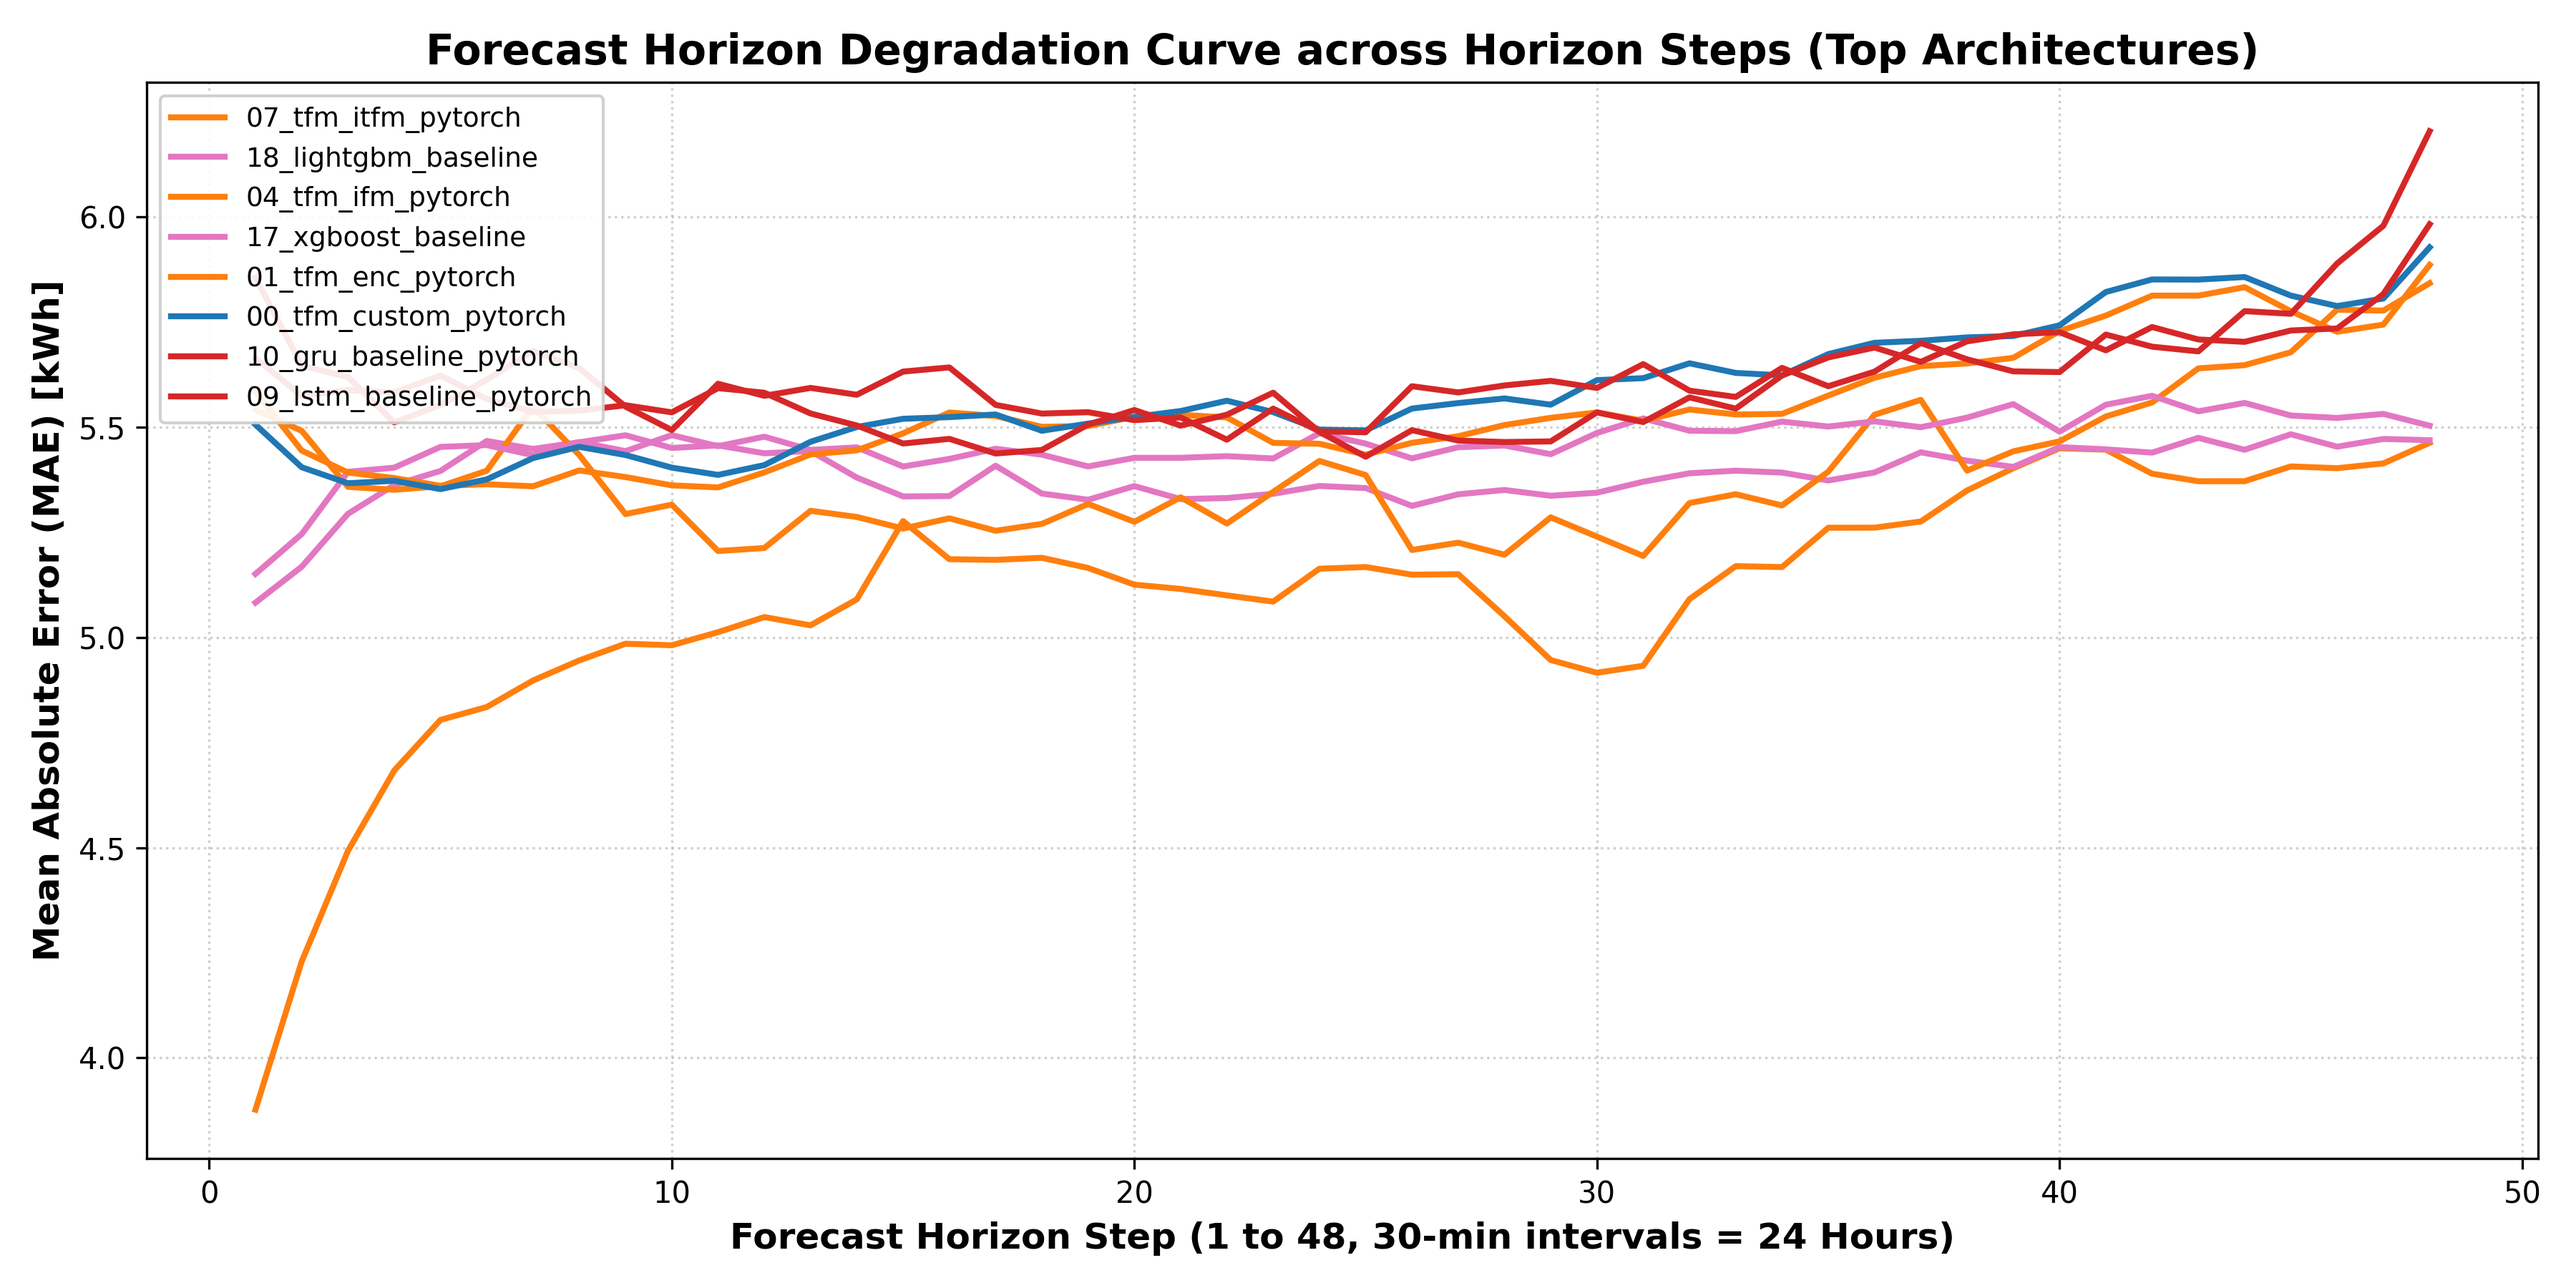
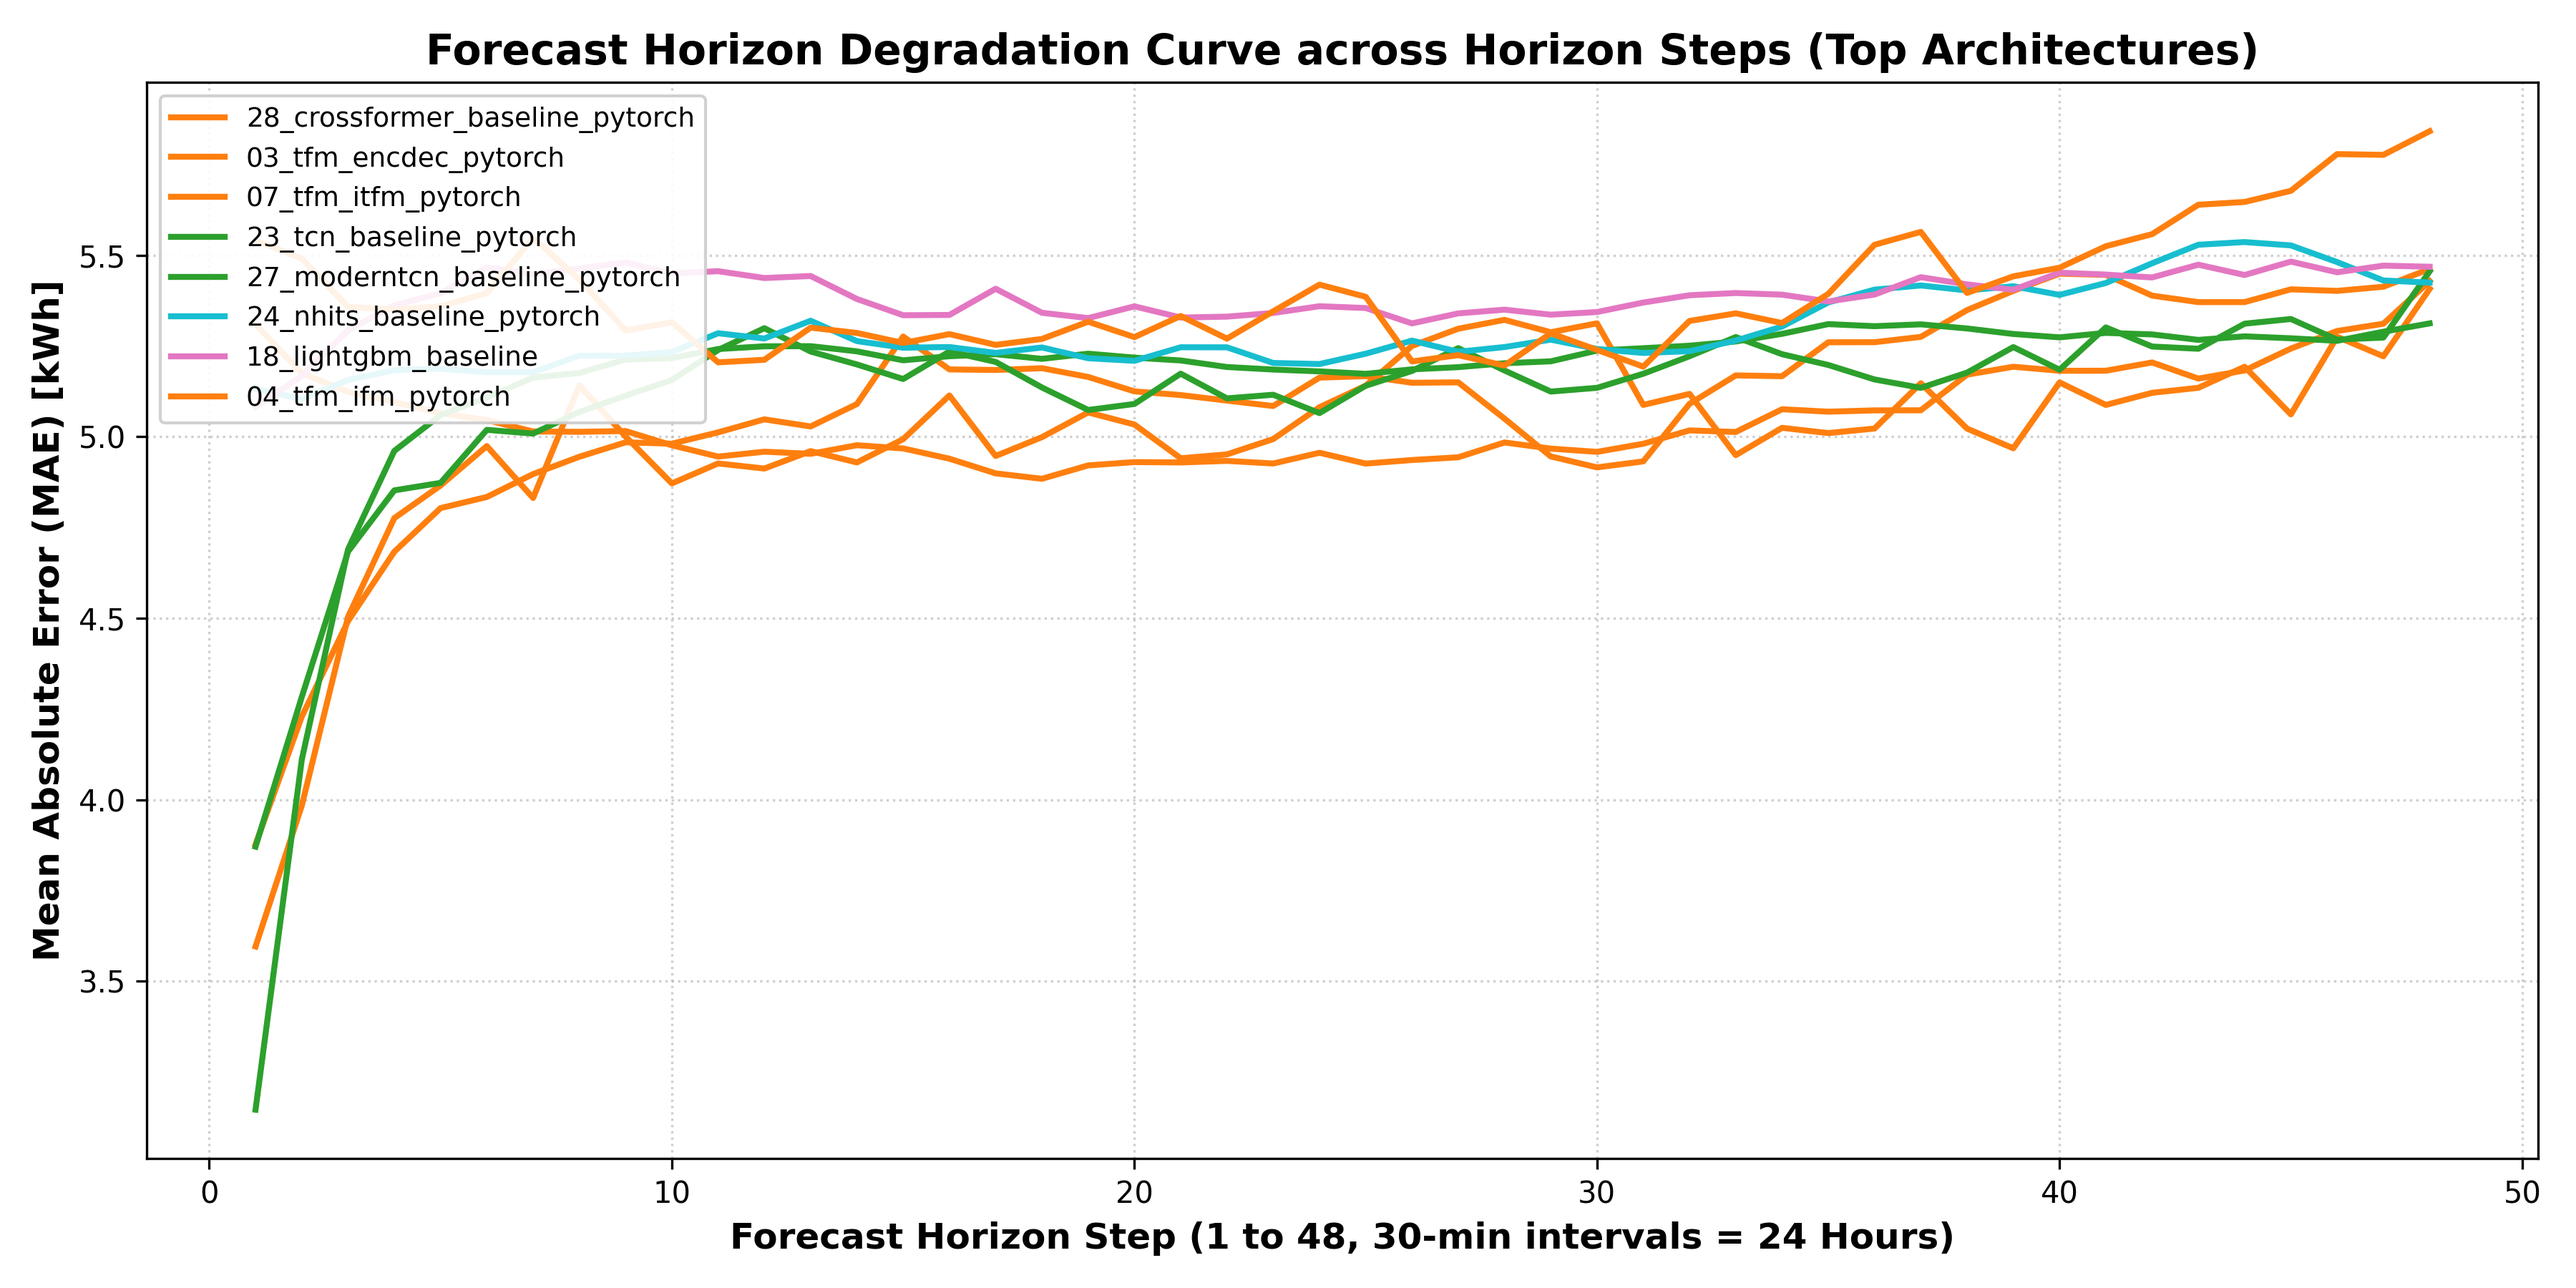
feat(06): fix run_benchmark scoping bug and add dedicated H100 sbatch runner

diff --git a/docs/benchmark_summary.tex b/docs/benchmark_summary.tex
@@ -7,24 +7,36 @@
 \toprule
 \textbf{Model Architecture} & \textbf{Family} & \textbf{MAE (kWh)} $\downarrow$ & \textbf{RMSE (kWh)} $\downarrow$ & \textbf{WAPE (\%)} $\downarrow$ & \textbf{$R^2$} $\uparrow$ & \textbf{Parameters} \\
 \midrule
-07\_tfm\_itfm\_pytorch & Transformer & \textbf{$5.0937 \pm 0.1477$} & \textbf{$7.5109 \pm 0.1545$} & \textbf{$59.82 \pm 1.73$} & $0.7055$ & N/A \\
+28\_crossformer\_baseline\_pytorch & Transformer (Crossformer) & \textbf{$5.0004 \pm 0.1176$} & \textbf{$7.4610 \pm 0.1038$} & \textbf{$58.72 \pm 1.38$} & $0.7094$ & 1,645,360 \\
+03\_tfm\_encdec\_pytorch & Transformer & $5.0528 \pm 0.1323$ & $7.8750 \pm 0.1611$ & $59.34 \pm 1.55$ & $0.6762$ & 178,497 \\
+07\_tfm\_itfm\_pytorch & Transformer & $5.0937 \pm 0.1477$ & $7.5109 \pm 0.1545$ & $59.82 \pm 1.73$ & $0.7055$ & N/A \\
+23\_tcn\_baseline\_pytorch & CNN / 2D Temporal & $5.1188 \pm 0.1077$ & $7.4927 \pm 0.1225$ & $60.11 \pm 1.27$ & $0.7069$ & 161,392 \\
+27\_moderntcn\_baseline\_pytorch & CNN (ModernTCN) & $5.1498 \pm 0.0340$ & $8.0072 \pm 0.0735$ & $60.48 \pm 0.40$ & $0.6654$ & 767,112 \\
+24\_nhits\_baseline\_pytorch & Basis Expansion & $5.2916 \pm 0.0827$ & $7.7747 \pm 0.1053$ & $62.14 \pm 0.97$ & $0.6845$ & 2,308,530 \\
 18\_lightgbm\_baseline & Tree-based GBDT & $5.3865 \pm 0.0059$ & $8.1150 \pm 0.0070$ & $63.26 \pm 0.07$ & $0.6563$ & 48,000 \\
 04\_tfm\_ifm\_pytorch & Transformer & $5.3972 \pm 0.1241$ & $8.0262 \pm 0.1322$ & $63.38 \pm 1.46$ & $0.6637$ & 120,592 \\
 17\_xgboost\_baseline & Tree-based GBDT & $5.4623 \pm 0.0099$ & $8.1352 \pm 0.0087$ & $64.15 \pm 0.12$ & $0.6546$ & 48,000 \\
-01\_tfm\_enc\_pytorch & Transformer & $5.5415 \pm 0.0866$ & $7.9135 \pm 0.1106$ & $65.08 \pm 1.02$ & $0.6731$ & 180,336 \\
+10\_gru\_baseline\_pytorch & Recurrent (RNN) & $5.4808 \pm 0.1177$ & $7.8744 \pm 0.1160$ & $64.37 \pm 1.38$ & $0.6763$ & 54,640 \\
+13\_smamba\_baseline\_pytorch & State Space Model & $5.4959 \pm 0.2483$ & $8.7047 \pm 0.4660$ & $64.54 \pm 2.92$ & $0.6034$ & 333,288 \\
+22\_tfm\_fedformer\_pytorch & Transformer & $5.5627 \pm 0.0700$ & $7.9165 \pm 0.0809$ & $65.33 \pm 0.82$ & $0.6729$ & 54,530 \\
 00\_tfm\_custom\_pytorch & Custom Proposed & $5.5811 \pm 0.1324$ & $7.8832 \pm 0.1215$ & $65.54 \pm 1.55$ & $0.6756$ & 180,336 \\
-10\_gru\_baseline\_pytorch & Recurrent (RNN) & $5.5895 \pm 0.1014$ & $7.9918 \pm 0.1039$ & $65.64 \pm 1.19$ & $0.6666$ & 33,264 \\
-09\_lstm\_baseline\_pytorch & Recurrent (RNN) & $5.6338 \pm 0.0815$ & $8.0907 \pm 0.1488$ & $66.16 \pm 0.96$ & $0.6583$ & 37,488 \\
+02\_tfm\_dec\_pytorch & Transformer & $5.5937 \pm 0.1361$ & $8.0554 \pm 0.1082$ & $65.69 \pm 1.60$ & $0.6613$ & 654,960 \\
+01\_tfm\_enc\_pytorch & Transformer & $5.6313 \pm 0.0893$ & $8.0440 \pm 0.1092$ & $66.13 \pm 1.05$ & $0.6622$ & 29,136 \\
+20\_tfm\_mft\_pytorch & Transformer (MFT) & $5.6435 \pm 0.2722$ & $8.2366 \pm 0.3430$ & $66.28 \pm 3.20$ & $0.6453$ & 231,024 \\
+09\_lstm\_baseline\_pytorch & Recurrent (RNN) & $5.6596 \pm 0.0804$ & $8.1586 \pm 0.1706$ & $66.47 \pm 0.94$ & $0.6525$ & 62,960 \\
 15\_timemachine\_baseline\_pytorch & State Space Model & $5.6652 \pm 0.0910$ & $8.1436 \pm 0.0790$ & $66.53 \pm 1.07$ & $0.6539$ & 38,448 \\
-02\_tfm\_dec\_pytorch & Transformer & $5.7191 \pm 0.0914$ & $8.0587 \pm 0.0850$ & $67.16 \pm 1.07$ & $0.6610$ & 192,624 \\
+21\_cnn\_lstm\_tfm\_pytorch & Hybrid Architecture & $5.7343 \pm 0.1865$ & $8.4143 \pm 0.2966$ & $67.34 \pm 2.19$ & $0.6301$ & 685,104 \\
 16\_s4d\_baseline\_pytorch & State Space Model & $5.7690 \pm 0.1409$ & $8.3191 \pm 0.1640$ & $67.75 \pm 1.65$ & $0.6387$ & 27,984 \\
 14\_powermamba\_baseline\_pytorch & State Space Model & $5.7845 \pm 0.1200$ & $8.2071 \pm 0.1632$ & $67.93 \pm 1.41$ & $0.6483$ & 45,360 \\
-13\_smamba\_baseline\_pytorch & State Space Model & $5.8187 \pm 0.1023$ & $8.2148 \pm 0.0850$ & $68.33 \pm 1.20$ & $0.6478$ & 362,480 \\
+30\_nstransformer\_baseline\_pytorch & Transformer (NS-Tfm) & $5.8956 \pm 0.1437$ & $8.6152 \pm 0.1732$ & $69.24 \pm 1.69$ & $0.6125$ & 113,873 \\
 05\_tfm\_afm\_pytorch & Transformer & $5.9289 \pm 0.1330$ & $8.6172 \pm 0.1860$ & $69.63 \pm 1.56$ & $0.6123$ & 926,978 \\
-03\_tfm\_encdec\_pytorch & Transformer & $5.9328 \pm 0.1112$ & $8.2210 \pm 0.1065$ & $69.67 \pm 1.31$ & $0.6472$ & 1,282,800 \\
+31\_scinet\_baseline\_pytorch & Convolutional (SCINet) & $6.0479 \pm 0.3763$ & $8.5736 \pm 0.4783$ & $71.03 \pm 4.42$ & $0.6152$ & 18,376,753 \\
+26\_nbeats\_baseline\_pytorch & Basis Expansion & $6.0587 \pm 0.0586$ & $9.3085 \pm 0.0304$ & $71.15 \pm 0.69$ & $0.5478$ & 1,036,864 \\
+29\_segrnn\_baseline\_pytorch & Recurrent (SegRNN) & $6.0661 \pm 0.1210$ & $9.4696 \pm 0.0945$ & $71.24 \pm 1.42$ & $0.5320$ & 800,012 \\
 08\_tfm\_timesnet\_pytorch & CNN / 2D Temporal & $6.0995 \pm 0.1824$ & $8.8674 \pm 0.2681$ & $71.63 \pm 2.14$ & $0.5893$ & N/A \\
 12\_nlinear\_baseline\_pytorch & Linear & Decomp & $6.2466 \pm 0.0036$ & $10.4387 \pm 0.0011$ & $73.36 \pm 0.04$ & $0.4313$ & 4,656 \\
-11\_dlinear\_baseline\_pytorch & Linear & Decomp & $6.9832 \pm 0.0540$ & $10.4371 \pm 0.0227$ & $82.01 \pm 0.63$ & $0.4315$ & 9,312 \\
+11\_dlinear\_baseline\_pytorch & Linear & Decomp & $6.9656 \pm 0.1071$ & $10.4281 \pm 0.0434$ & $81.80 \pm 1.26$ & $0.4325$ & 9,312 \\
+25\_tide\_baseline\_pytorch & Linear / Dense MLP & $6.9962 \pm 0.0631$ & $10.4550 \pm 0.0326$ & $82.16 \pm 0.74$ & $0.4295$ & 1,833,396 \\
 06\_tfm\_ptst\_pytorch & Transformer & $7.2949 \pm 0.1759$ & $10.7911 \pm 0.2136$ & $85.67 \pm 2.07$ & $0.3921$ & 542,056 \\
 19\_sarima\_baseline & Statistical Baseline & $10.1119 \pm 0.0000$ & $13.8129 \pm 0.0000$ & $108.27 \pm 0.00$ & $0.1407$ & 4 \\
 \bottomrule

diff --git a/06_tfm_ptst_pytorch.py b/06_tfm_ptst_pytorch.py
@@ -273,6 +273,7 @@ steps_to_eval = [0, 5, 11, 47]
 step_labels = {0: 'Step 0 (30 min)', 5: 'Step 5 (3 hr)', 11: 'Step 11 (6 hr)', 47: 'Step 47 (24 hr)'}
 
 def run_benchmark():
+    global results_data, all_seed_metrics, all_predictions, best_overall_val_loss, best_seed_id
     print('Pre-building sequence tensors...')
     X_train_t, y_train_t, _, _ = create_windowed_tensors(X_train_scaled, y_train_scaled, LOOKBACK, HORIZON)
     X_val_t, y_val_t, _, _     = create_windowed_tensors(X_val_scaled, y_val_scaled, LOOKBACK, HORIZON)

diff --git a/docs/benchmark_summary.md b/docs/benchmark_summary.md
@@ -5,23 +5,35 @@
 
 | Rank | Model Architecture | Family | MAE (kWh) ↓ | RMSE (kWh) ↓ | WAPE (%) ↓ | Peak MAE ↓ | R² ↑ | Params | Time (s) |
 |:---:|---|---|:---:|:---:|:---:|:---:|:---:|:---:|:---:|
-| 1 | `07_tfm_itfm_pytorch` | Transformer | **5.0937 ± 0.1477** 🏆 | **7.5109 ± 0.1545** | **59.82% ± 1.73%** | **11.1202** | **0.7055** | N/A | 60.7s |
-| 2 | `18_lightgbm_baseline` | Tree-based GBDT | 5.3865 ± 0.0059 | 8.1150 ± 0.0070 | 63.26% ± 0.07% | 14.7259 | 0.6563 | 48,000 | 196.4s |
-| 3 | `04_tfm_ifm_pytorch` | Transformer | 5.3972 ± 0.1241 | 8.0262 ± 0.1322 | 63.38% ± 1.46% | 13.2090 | 0.6637 | 120,592 | 208.3s |
-| 4 | `17_xgboost_baseline` | Tree-based GBDT | 5.4623 ± 0.0099 | 8.1352 ± 0.0087 | 64.15% ± 0.12% | 14.7549 | 0.6546 | 48,000 | 49.5s |
-| 5 | `01_tfm_enc_pytorch` | Transformer | 5.5415 ± 0.0866 | 7.9135 ± 0.1106 | 65.08% ± 1.02% | 12.8813 | 0.6731 | 180,336 | 20.0s |
-| 6 | `00_tfm_custom_pytorch` | Custom Proposed | 5.5811 ± 0.1324 | 7.8832 ± 0.1215 | 65.54% ± 1.55% | 12.5785 | 0.6756 | 180,336 | 38.2s |
-| 7 | `10_gru_baseline_pytorch` | Recurrent (RNN) | 5.5895 ± 0.1014 | 7.9918 ± 0.1039 | 65.64% ± 1.19% | 13.2555 | 0.6666 | 33,264 | 22.5s |
-| 8 | `09_lstm_baseline_pytorch` | Recurrent (RNN) | 5.6338 ± 0.0815 | 8.0907 ± 0.1488 | 66.16% ± 0.96% | 13.1166 | 0.6583 | 37,488 | 19.4s |
-| 9 | `15_timemachine_baseline_pytorch` | State Space Model | 5.6652 ± 0.0910 | 8.1436 ± 0.0790 | 66.53% ± 1.07% | 14.6931 | 0.6539 | 38,448 | 428.0s |
-| 10 | `02_tfm_dec_pytorch` | Transformer | 5.7191 ± 0.0914 | 8.0587 ± 0.0850 | 67.16% ± 1.07% | 12.9092 | 0.6610 | 192,624 | 43.2s |
-| 11 | `16_s4d_baseline_pytorch` | State Space Model | 5.7690 ± 0.1409 | 8.3191 ± 0.1640 | 67.75% ± 1.65% | 13.4052 | 0.6387 | 27,984 | 19.4s |
-| 12 | `14_powermamba_baseline_pytorch` | State Space Model | 5.7845 ± 0.1200 | 8.2071 ± 0.1632 | 67.93% ± 1.41% | 14.2565 | 0.6483 | 45,360 | 107.4s |
-| 13 | `13_smamba_baseline_pytorch` | State Space Model | 5.8187 ± 0.1023 | 8.2148 ± 0.0850 | 68.33% ± 1.20% | 15.0795 | 0.6478 | 362,480 | 1625.3s |
-| 14 | `05_tfm_afm_pytorch` | Transformer | 5.9289 ± 0.1330 | 8.6172 ± 0.1860 | 69.63% ± 1.56% | 14.2734 | 0.6123 | 926,978 | 48.1s |
-| 15 | `03_tfm_encdec_pytorch` | Transformer | 5.9328 ± 0.1112 | 8.2210 ± 0.1065 | 69.67% ± 1.31% | 13.1369 | 0.6472 | 1,282,800 | 75.8s |
-| 16 | `08_tfm_timesnet_pytorch` | CNN / 2D Temporal | 6.0995 ± 0.1824 | 8.8674 ± 0.2681 | 71.63% ± 2.14% | 16.1503 | 0.5893 | N/A | 127.9s |
-| 17 | `12_nlinear_baseline_pytorch` | Linear & Decomp | 6.2466 ± 0.0036 | 10.4387 ± 0.0011 | 73.36% ± 0.04% | 21.3976 | 0.4313 | 4,656 | 21.8s |
-| 18 | `11_dlinear_baseline_pytorch` | Linear & Decomp | 6.9832 ± 0.0540 | 10.4371 ± 0.0227 | 82.01% ± 0.63% | 19.6748 | 0.4315 | 9,312 | 5.1s |
-| 19 | `06_tfm_ptst_pytorch` | Transformer | 7.2949 ± 0.1759 | 10.7911 ± 0.2136 | 85.67% ± 2.07% | 14.3890 | 0.3921 | 542,056 | 75.9s |
-| 20 | `19_sarima_baseline` | Statistical Baseline | 10.1119 ± 0.0000 | 13.8129 ± 0.0000 | 108.27% ± 0.00% | 20.3742 | 0.1407 | 4 | 11593.7s |
+| 1 | `28_crossformer_baseline_pytorch` | Transformer (Crossformer) | **5.0004 ± 0.1176** 🏆 | **7.4610 ± 0.1038** | **58.72% ± 1.38%** | 12.9167 | **0.7094** | 1,645,360 | 36.5s |
+| 2 | `03_tfm_encdec_pytorch` | Transformer | 5.0528 ± 0.1323 | 7.8750 ± 0.1611 | 59.34% ± 1.55% | 13.3395 | 0.6762 | 178,497 | 130.0s |
+| 3 | `07_tfm_itfm_pytorch` | Transformer | 5.0937 ± 0.1477 | 7.5109 ± 0.1545 | 59.82% ± 1.73% | **11.1202** | 0.7055 | N/A | 60.7s |
+| 4 | `23_tcn_baseline_pytorch` | CNN / 2D Temporal | 5.1188 ± 0.1077 | 7.4927 ± 0.1225 | 60.11% ± 1.27% | 13.3974 | 0.7069 | 161,392 | 20.3s |
+| 5 | `27_moderntcn_baseline_pytorch` | CNN (ModernTCN) | 5.1498 ± 0.0340 | 8.0072 ± 0.0735 | 60.48% ± 0.40% | 15.7185 | 0.6654 | 767,112 | 37.2s |
+| 6 | `24_nhits_baseline_pytorch` | Basis Expansion | 5.2916 ± 0.0827 | 7.7747 ± 0.1053 | 62.14% ± 0.97% | 12.9767 | 0.6845 | 2,308,530 | 27.5s |
+| 7 | `18_lightgbm_baseline` | Tree-based GBDT | 5.3865 ± 0.0059 | 8.1150 ± 0.0070 | 63.26% ± 0.07% | 14.7259 | 0.6563 | 48,000 | 196.4s |
+| 8 | `04_tfm_ifm_pytorch` | Transformer | 5.3972 ± 0.1241 | 8.0262 ± 0.1322 | 63.38% ± 1.46% | 13.2090 | 0.6637 | 120,592 | 208.3s |
+| 9 | `17_xgboost_baseline` | Tree-based GBDT | 5.4623 ± 0.0099 | 8.1352 ± 0.0087 | 64.15% ± 0.12% | 14.7549 | 0.6546 | 48,000 | 49.5s |
+| 10 | `10_gru_baseline_pytorch` | Recurrent (RNN) | 5.4808 ± 0.1177 | 7.8744 ± 0.1160 | 64.37% ± 1.38% | 13.3875 | 0.6763 | 54,640 | 23.5s |
+| 11 | `13_smamba_baseline_pytorch` | State Space Model | 5.4959 ± 0.2483 | 8.7047 ± 0.4660 | 64.54% ± 2.92% | 17.2869 | 0.6034 | 333,288 | 358.2s |
+| 12 | `22_tfm_fedformer_pytorch` | Transformer | 5.5627 ± 0.0700 | 7.9165 ± 0.0809 | 65.33% ± 0.82% | 12.6828 | 0.6729 | 54,530 | 30.5s |
+| 13 | `00_tfm_custom_pytorch` | Custom Proposed | 5.5811 ± 0.1324 | 7.8832 ± 0.1215 | 65.54% ± 1.55% | 12.5785 | 0.6756 | 180,336 | 38.2s |
+| 14 | `02_tfm_dec_pytorch` | Transformer | 5.5937 ± 0.1361 | 8.0554 ± 0.1082 | 65.69% ± 1.60% | 12.9435 | 0.6613 | 654,960 | 53.9s |
+| 15 | `01_tfm_enc_pytorch` | Transformer | 5.6313 ± 0.0893 | 8.0440 ± 0.1092 | 66.13% ± 1.05% | 14.0934 | 0.6622 | 29,136 | 25.1s |
+| 16 | `20_tfm_mft_pytorch` | Transformer (MFT) | 5.6435 ± 0.2722 | 8.2366 ± 0.3430 | 66.28% ± 3.20% | 13.0577 | 0.6453 | 231,024 | 32.4s |
+| 17 | `09_lstm_baseline_pytorch` | Recurrent (RNN) | 5.6596 ± 0.0804 | 8.1586 ± 0.1706 | 66.47% ± 0.94% | 13.7514 | 0.6525 | 62,960 | 12.9s |
+| 18 | `15_timemachine_baseline_pytorch` | State Space Model | 5.6652 ± 0.0910 | 8.1436 ± 0.0790 | 66.53% ± 1.07% | 14.6931 | 0.6539 | 38,448 | 428.0s |
+| 19 | `21_cnn_lstm_tfm_pytorch` | Hybrid Architecture | 5.7343 ± 0.1865 | 8.4143 ± 0.2966 | 67.34% ± 2.19% | 13.8747 | 0.6301 | 685,104 | 17.3s |
+| 20 | `16_s4d_baseline_pytorch` | State Space Model | 5.7690 ± 0.1409 | 8.3191 ± 0.1640 | 67.75% ± 1.65% | 13.4052 | 0.6387 | 27,984 | 19.4s |
+| 21 | `14_powermamba_baseline_pytorch` | State Space Model | 5.7845 ± 0.1200 | 8.2071 ± 0.1632 | 67.93% ± 1.41% | 14.2565 | 0.6483 | 45,360 | 107.4s |
+| 22 | `30_nstransformer_baseline_pytorch` | Transformer (NS-Tfm) | 5.8956 ± 0.1437 | 8.6152 ± 0.1732 | 69.24% ± 1.69% | 15.2207 | 0.6125 | 113,873 | 24.2s |
+| 23 | `05_tfm_afm_pytorch` | Transformer | 5.9289 ± 0.1330 | 8.6172 ± 0.1860 | 69.63% ± 1.56% | 14.2734 | 0.6123 | 926,978 | 48.1s |
+| 24 | `31_scinet_baseline_pytorch` | Convolutional (SCINet) | 6.0479 ± 0.3763 | 8.5736 ± 0.4783 | 71.03% ± 4.42% | 14.5122 | 0.6152 | 18,376,753 | 44.1s |
+| 25 | `26_nbeats_baseline_pytorch` | Basis Expansion | 6.0587 ± 0.0586 | 9.3085 ± 0.0304 | 71.15% ± 0.69% | 17.5791 | 0.5478 | 1,036,864 | 26.6s |
+| 26 | `29_segrnn_baseline_pytorch` | Recurrent (SegRNN) | 6.0661 ± 0.1210 | 9.4696 ± 0.0945 | 71.24% ± 1.42% | 16.9112 | 0.5320 | 800,012 | 38.8s |
+| 27 | `08_tfm_timesnet_pytorch` | CNN / 2D Temporal | 6.0995 ± 0.1824 | 8.8674 ± 0.2681 | 71.63% ± 2.14% | 16.1503 | 0.5893 | N/A | 127.9s |
+| 28 | `12_nlinear_baseline_pytorch` | Linear & Decomp | 6.2466 ± 0.0036 | 10.4387 ± 0.0011 | 73.36% ± 0.04% | 21.3976 | 0.4313 | 4,656 | 30.3s |
+| 29 | `11_dlinear_baseline_pytorch` | Linear & Decomp | 6.9656 ± 0.1071 | 10.4281 ± 0.0434 | 81.80% ± 1.26% | 19.6542 | 0.4325 | 9,312 | 24.6s |
+| 30 | `25_tide_baseline_pytorch` | Linear / Dense MLP | 6.9962 ± 0.0631 | 10.4550 ± 0.0326 | 82.16% ± 0.74% | 19.4354 | 0.4295 | 1,833,396 | 16.3s |
+| 31 | `06_tfm_ptst_pytorch` | Transformer | 7.2949 ± 0.1759 | 10.7911 ± 0.2136 | 85.67% ± 2.07% | 14.3890 | 0.3921 | 542,056 | 75.9s |
+| 32 | `19_sarima_baseline` | Statistical Baseline | 10.1119 ± 0.0000 | 13.8129 ± 0.0000 | 108.27% ± 0.00% | 20.3742 | 0.1407 | 4 | 11593.7s |
